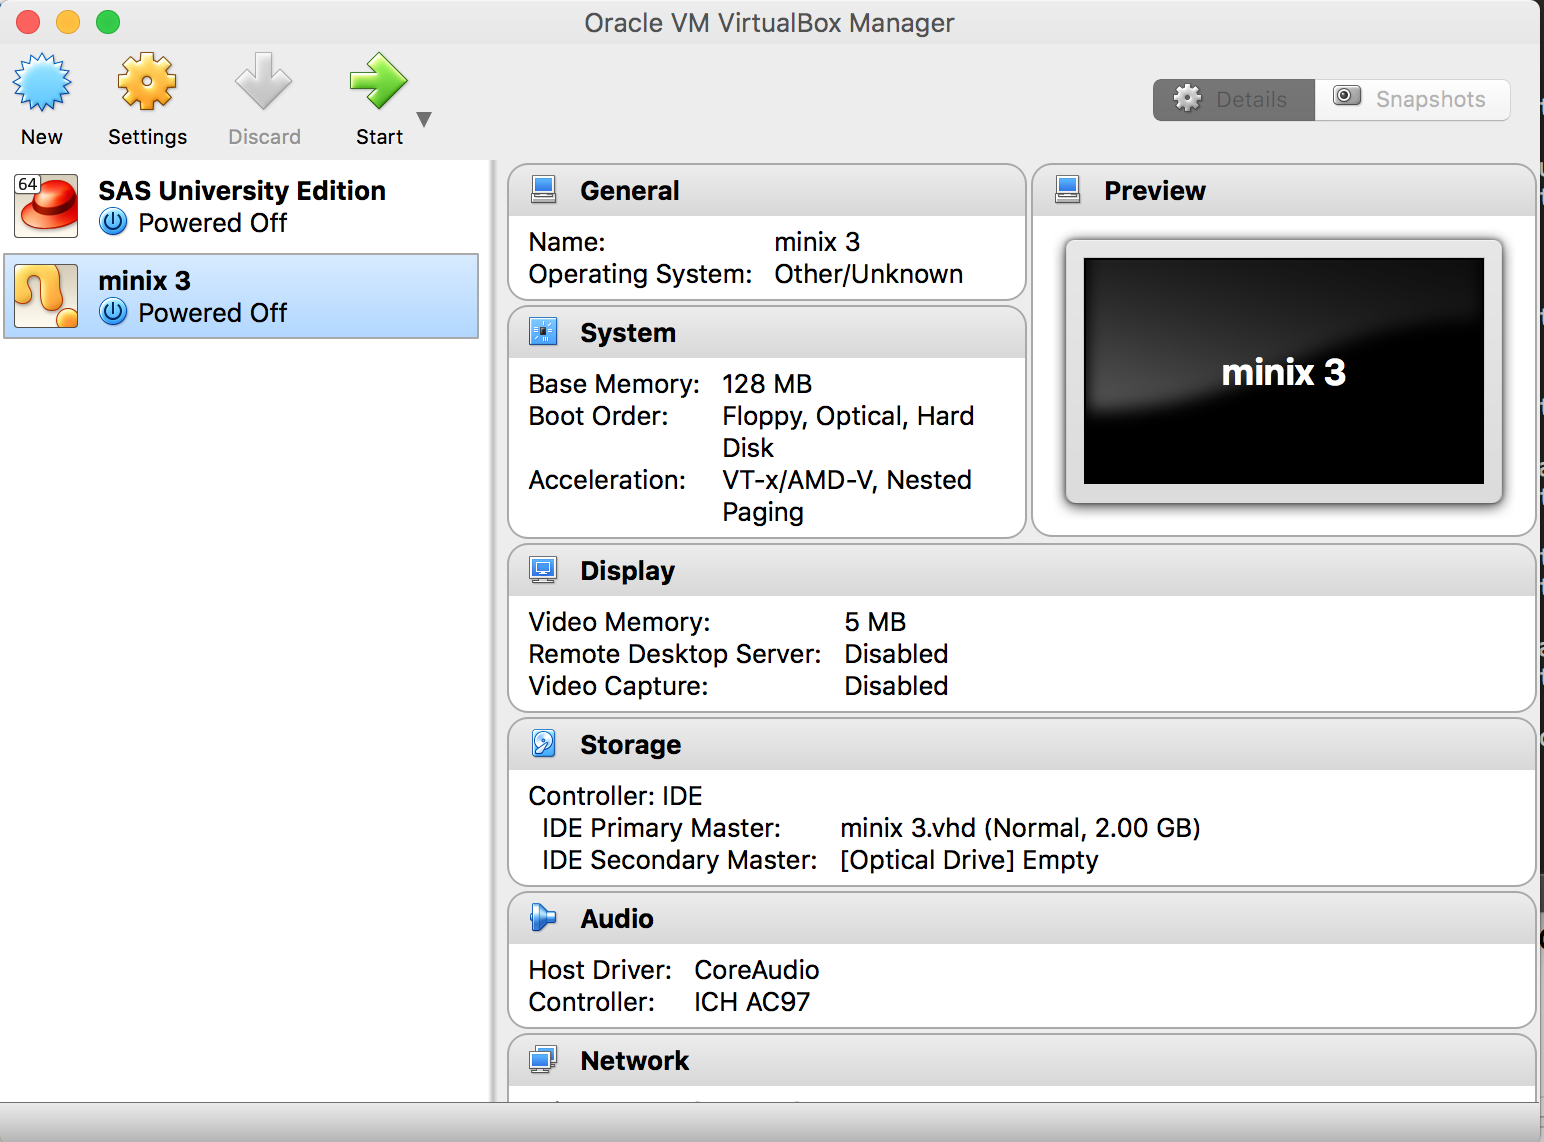
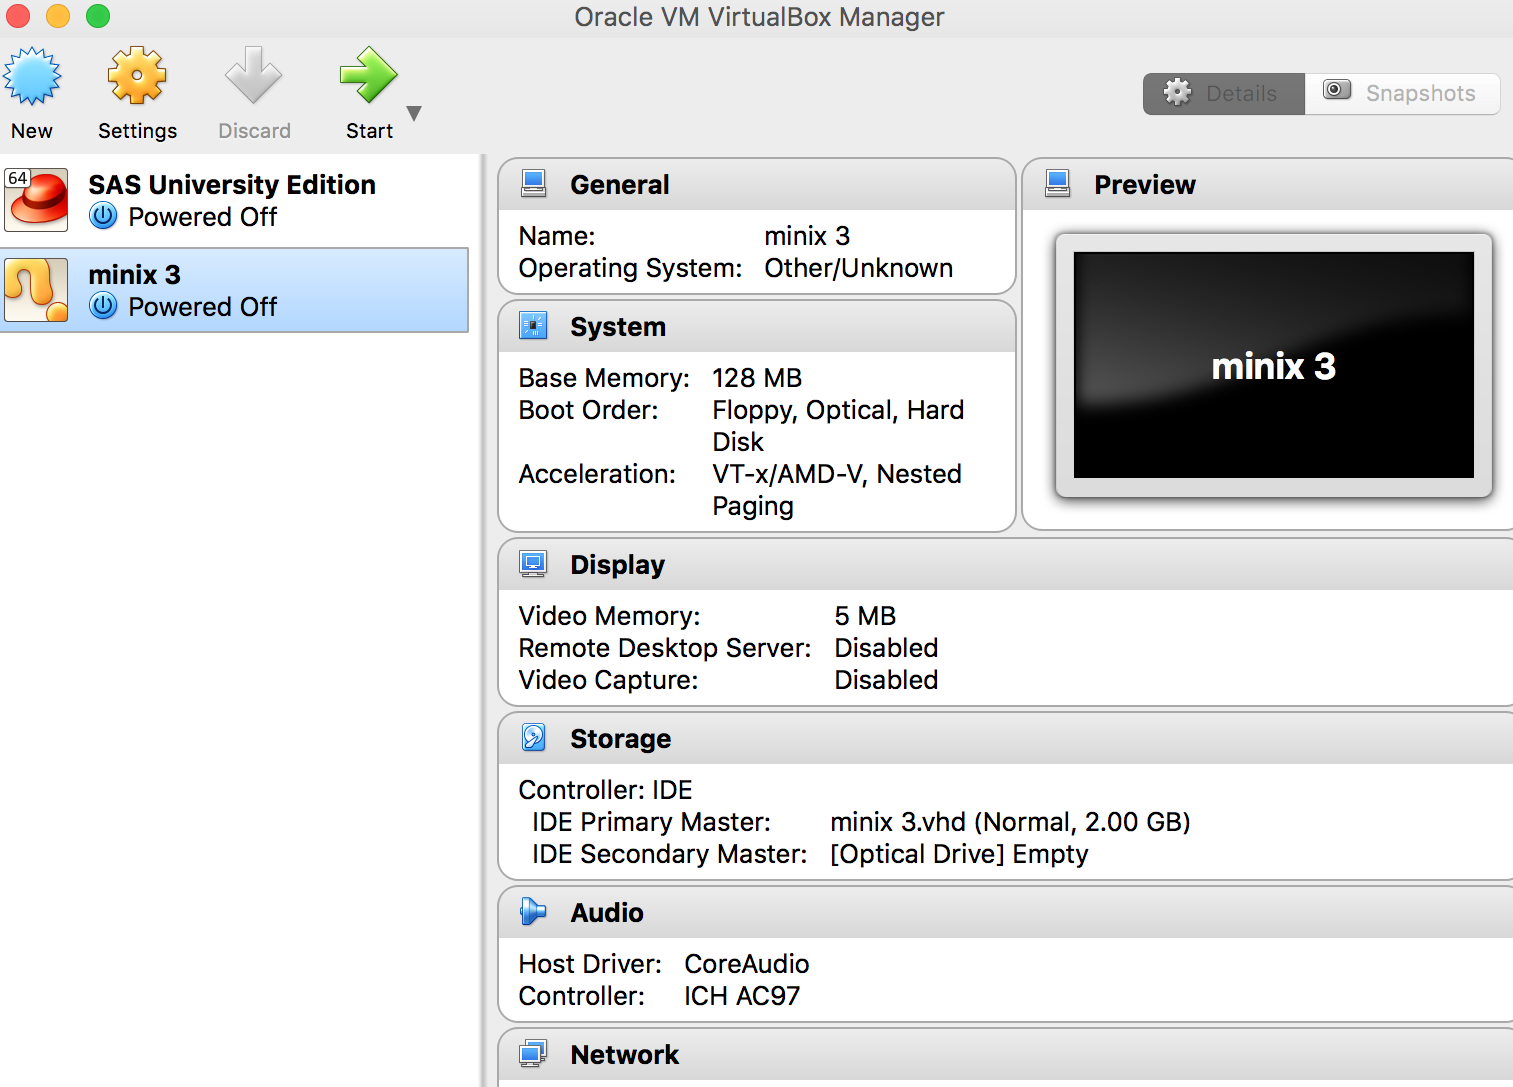
change size of picture

Changed region(s): [[0.0, 0.0, 1.0, 1.0], [0.0, 0.0, 0.3106, 0.3036], [0.3728, 0.0, 0.6213, 0.0304]]

diff --git a/README.md b/README.md
@@ -36,26 +36,26 @@ This section will talk about how to get the required application and source code
 
 2. Once the downloading is finished, you should have a dmg format file named VirtualBox-xxxx-OSX.dmg (xxx is version number). Double clicking this file to start the installation. You can change the file destination if you want to, otherwise keep selecting continue until the installation is finished. <br>
 
-    <img src="https://github.com/Beokro/minix_virtural_machine/raw/master/screenshots/4.png" width='400' height='300'/>
+    <img src="https://github.com/Beokro/minix_virtural_machine/raw/master/screenshots/4.png" width='400' height='315'/>
 <br><br>
 
 ## Minix3 source
 
 Minix3's source file can be downloaded from [Minix3 website][]. In this instruction, we will use version 3.3.0 (stable release) ISO Image. Once the downloading is finished, you should have a file named minix_Rxxx.iso. (xxx is version number).
 
-<img src="https://github.com/Beokro/minix_virtural_machine/raw/master/screenshots/7.png" width='400' height='200'/>
+<img src="https://github.com/Beokro/minix_virtural_machine/raw/master/screenshots/7.png" width='600' height='275'/>
 <br><br>
 
 # Loading Image
 
 1. Now you have all the martials you need. Let's go ahead and load the Minix3 image into the VirtualBox. Open the VirtualBox application. If you can not find it, press F4 to enter the application page. Use the search bar at top to locate VirtualBox.  <br>
 
-    <img src="https://github.com/Beokro/minix_virtural_machine/raw/master/screenshots/6.png" width='400' height='300'/> 
+    <img src="https://github.com/Beokro/minix_virtural_machine/raw/master/screenshots/6.png" width='400' height='298'/> 
 <br><br>
 
 2. Click new button on the top left of the window to create a new virtual machine. You can use whatever name you want, in this case we will just name it Minix3. Choose the type to be `Other` and the version to be `Other/Unknown`. Click continue. <br>
 
-    <img src="https://github.com/Beokro/minix_virtural_machine/raw/master/screenshots/10.png" width='400' height='300'/>    
+    <img src="https://github.com/Beokro/minix_virtural_machine/raw/master/screenshots/10.png" width='400' height='296'/>    
 <br><br> 
 
 3. Virtual Box will keep asking you to select the hardware spec for your virtual machine. You can set up the hardware as you like, but we recommend you not to change the default value too much. The following table can be used as a reference. Be aware that the minimum memory that Minix3 need is 64MB.  <br>
@@ -69,16 +69,16 @@ Minix3's source file can be downloaded from [Minix3 website][]. In this instruct
 <br><br>    
 
 4. Now you should be able to see your new virtual machine on the left column of the Virtual Box. <br><br>
-    <img src="https://github.com/Beokro/minix_virtural_machine/raw/master/screenshots/15.png" width='400' height='300'/>   
+    <img src="https://github.com/Beokro/minix_virtural_machine/raw/master/screenshots/15.png" width='400' height='287'/>   
 <br><br>    
 
 5. Select the virtual machine you just created, click `Setting` which is a yellow gear icon on top left of the windows. In the setting page, go to `Storage` section and click little CD icon that follows `Empty`. On the Attributes subsection, click another CD icon and select `Choose Virtual Optical Disk File`. <br>
     
-    <img src="https://github.com/Beokro/minix_virtural_machine/raw/master/screenshots/16.png" width='420' height='300'/>   
+    <img src="https://github.com/Beokro/minix_virtural_machine/raw/master/screenshots/16.png" width='400' height='243'/>   
 <br><br>
 
 6. On the windows that popped up, find the Minix3 ISO file you downloaded in the previous section and open it. Now you have successfully loaded the Minix3 image into the virtual machine you just created.  <br><br>
-    <img src="https://github.com/Beokro/minix_virtural_machine/raw/master/screenshots/17.png" width='400' height='300'/>   
+    <img src="https://github.com/Beokro/minix_virtural_machine/raw/master/screenshots/17.png" width='400' height='249'/>   
 <br><br>
 
 
@@ -86,17 +86,17 @@ Minix3's source file can be downloaded from [Minix3 website][]. In this instruct
 
 1. Go back to the Virtual Box main windows, select the virtual machine you created. You should be able to find the start button on the top left of the windows, click it to start the Minix3. <br>
 
-    <img src="https://github.com/Beokro/minix_virtural_machine/raw/master/screenshots/18.png" width='400' height='300'/>   
+    <img src="https://github.com/Beokro/minix_virtural_machine/raw/master/screenshots/18.png" width='400' height='287'/>   
 <br><br>
 
 2. VirtualBox will automatically load the image file from disk and give you couple options regarding booting procedure. Let's press `Enter` to start system regularly. <br>
 
-	<img src="https://github.com/Beokro/minix_virtural_machine/raw/master/screenshots/19.png" width='400' height='300'/> <br><br>
+	<img src="https://github.com/Beokro/minix_virtural_machine/raw/master/screenshots/19.png" width='400' height='235'/> <br><br>
 
 
 3. Minix3 will ask you for the login name. Since you haven't created an account yet, let's use root to enter the root mode. Once you login into the system, type setup to configure the Minix system setup.   <br>
 
-	<img src="https://github.com/Beokro/minix_virtural_machine/raw/master/screenshots/21.png" width='400' height='300'/> <br><br>
+	<img src="https://github.com/Beokro/minix_virtural_machine/raw/master/screenshots/21.png" width='400' height='247'/> <br><br>
 
 4. Minix3 will prompt you more questions about hardware specs and system options you want to use. You can choose the value that best suits your need. However if you are not sure what you want, press `Enter` to choose the default value. There are few tips we want to give in case you run into any unexpected situations.  <br>
 	- If screen blanks, press CTRL+F3 to enable "software scrolling"<br>
@@ -105,12 +105,12 @@ Minix3's source file can be downloaded from [Minix3 website][]. In this instruct
 
 5. The installation is going to take a while, you can monitor the progress by looking at the number of remaining files. Once the installation is finished, type shutdown to exit the system.<br>
 
-	<img src="https://github.com/Beokro/minix_virtural_machine/raw/master/screenshots/32.png" width='400' height='300'/><br><br>
+	<img src="https://github.com/Beokro/minix_virtural_machine/raw/master/screenshots/32.png" width='400' height='244'/><br><br>
 
 
 6. The last step of installation is removing the installation media. This way Minix3 won't load image on startup every time.  You can do that by following the same procedure as loading the image but select `Remove Disk from Virtual Drive` instead of `Choose Virtual Optical Disk File` <br>
 
-	<img src="https://github.com/Beokro/minix_virtural_machine/raw/master/screenshots/33.png" width='430' height='230'/>   
+	<img src="https://github.com/Beokro/minix_virtural_machine/raw/master/screenshots/33.png" width='400' height='148'/>   
 
 # Post Installation
 
